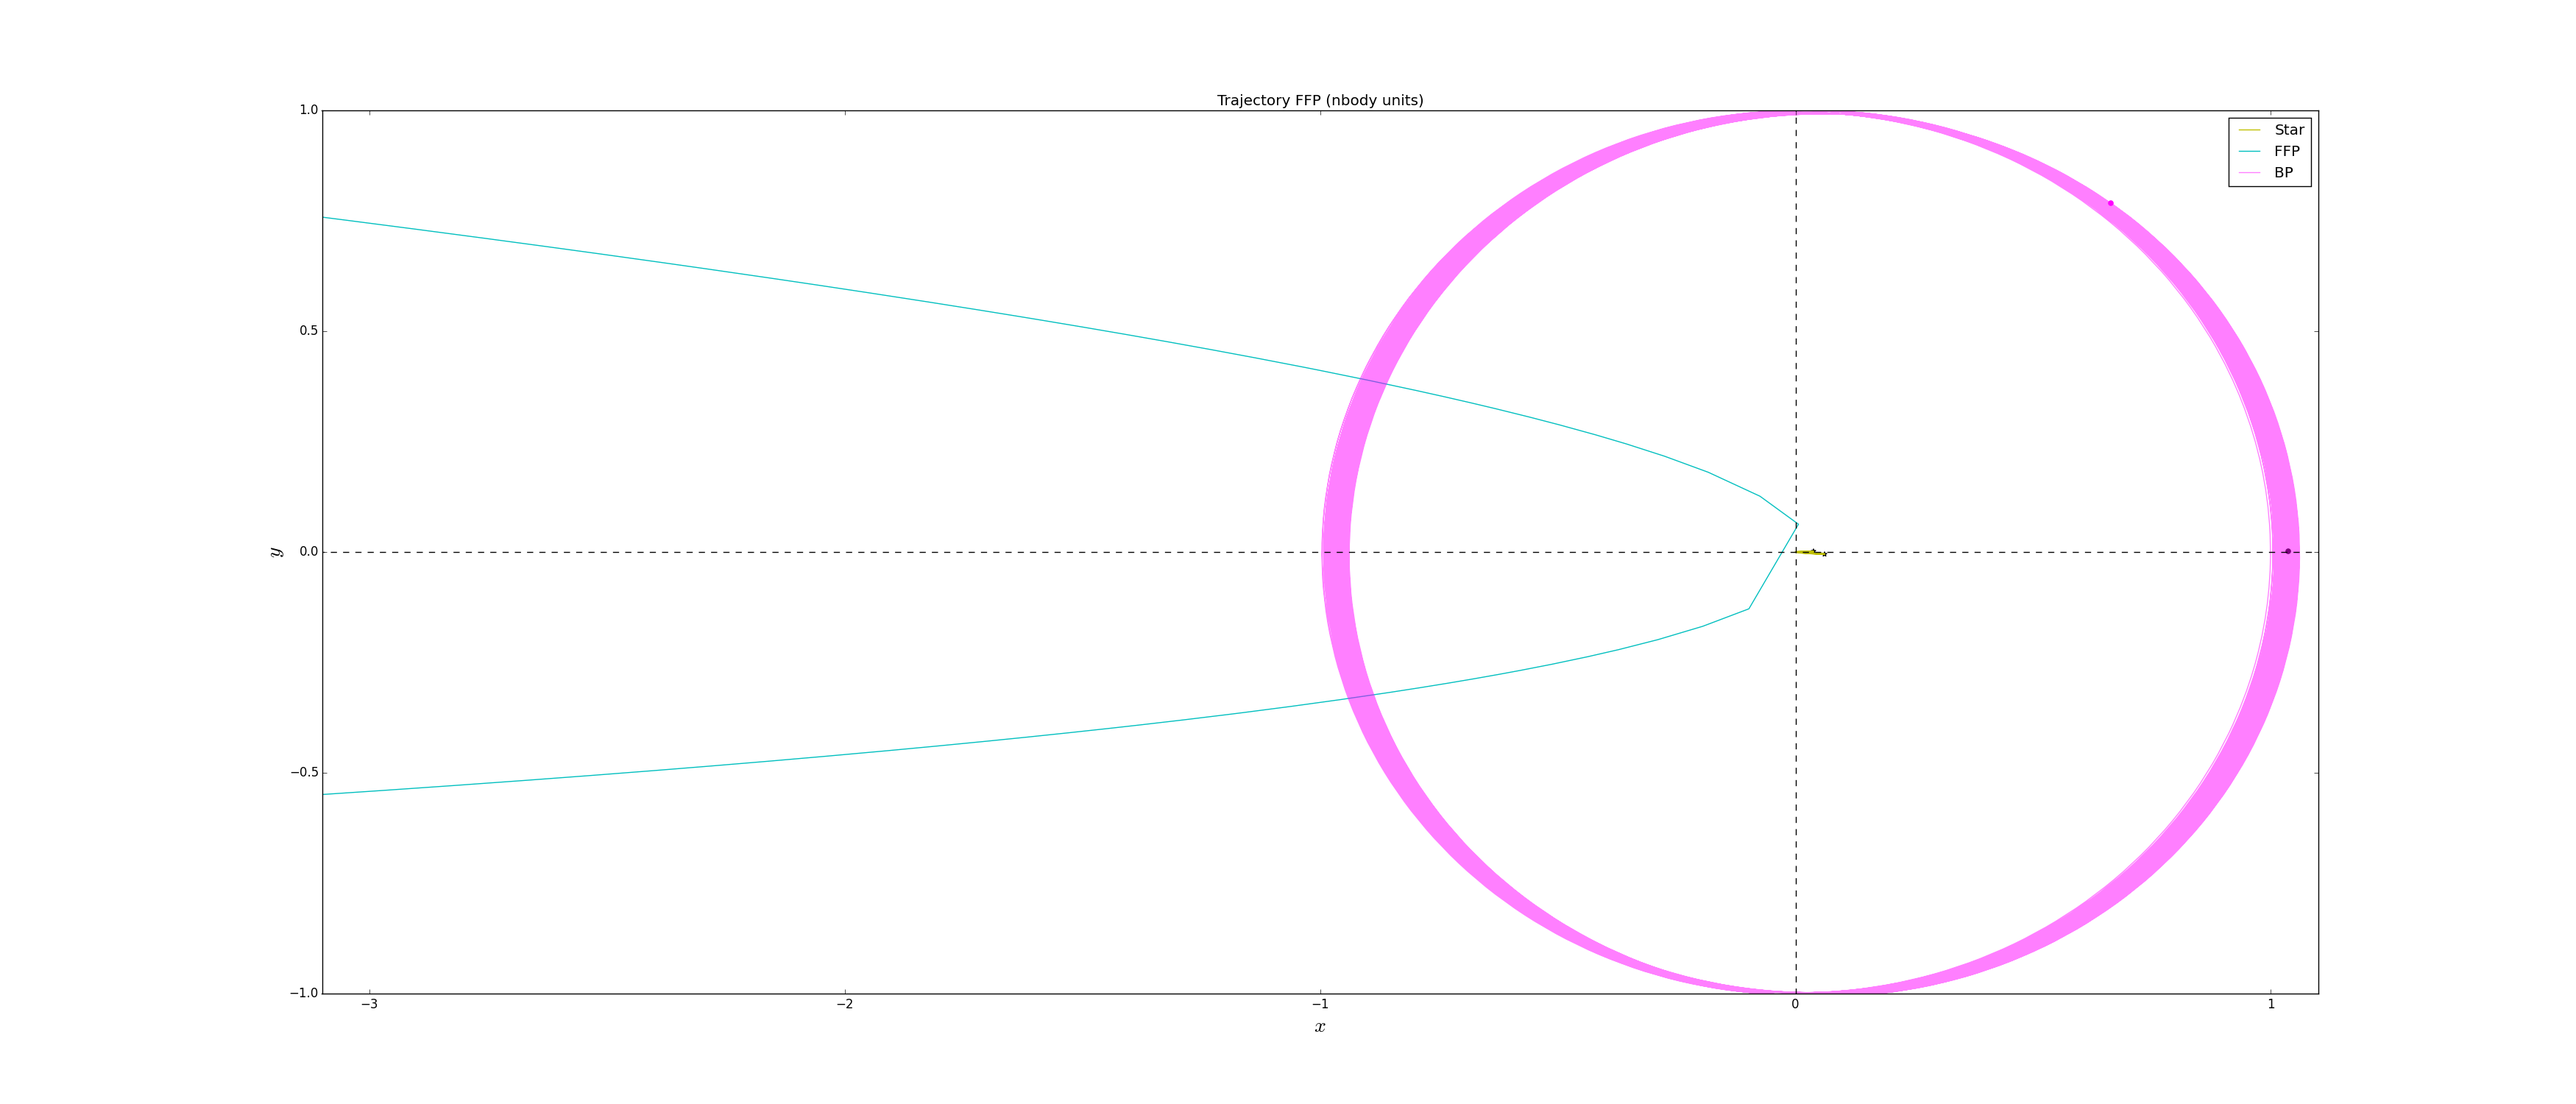
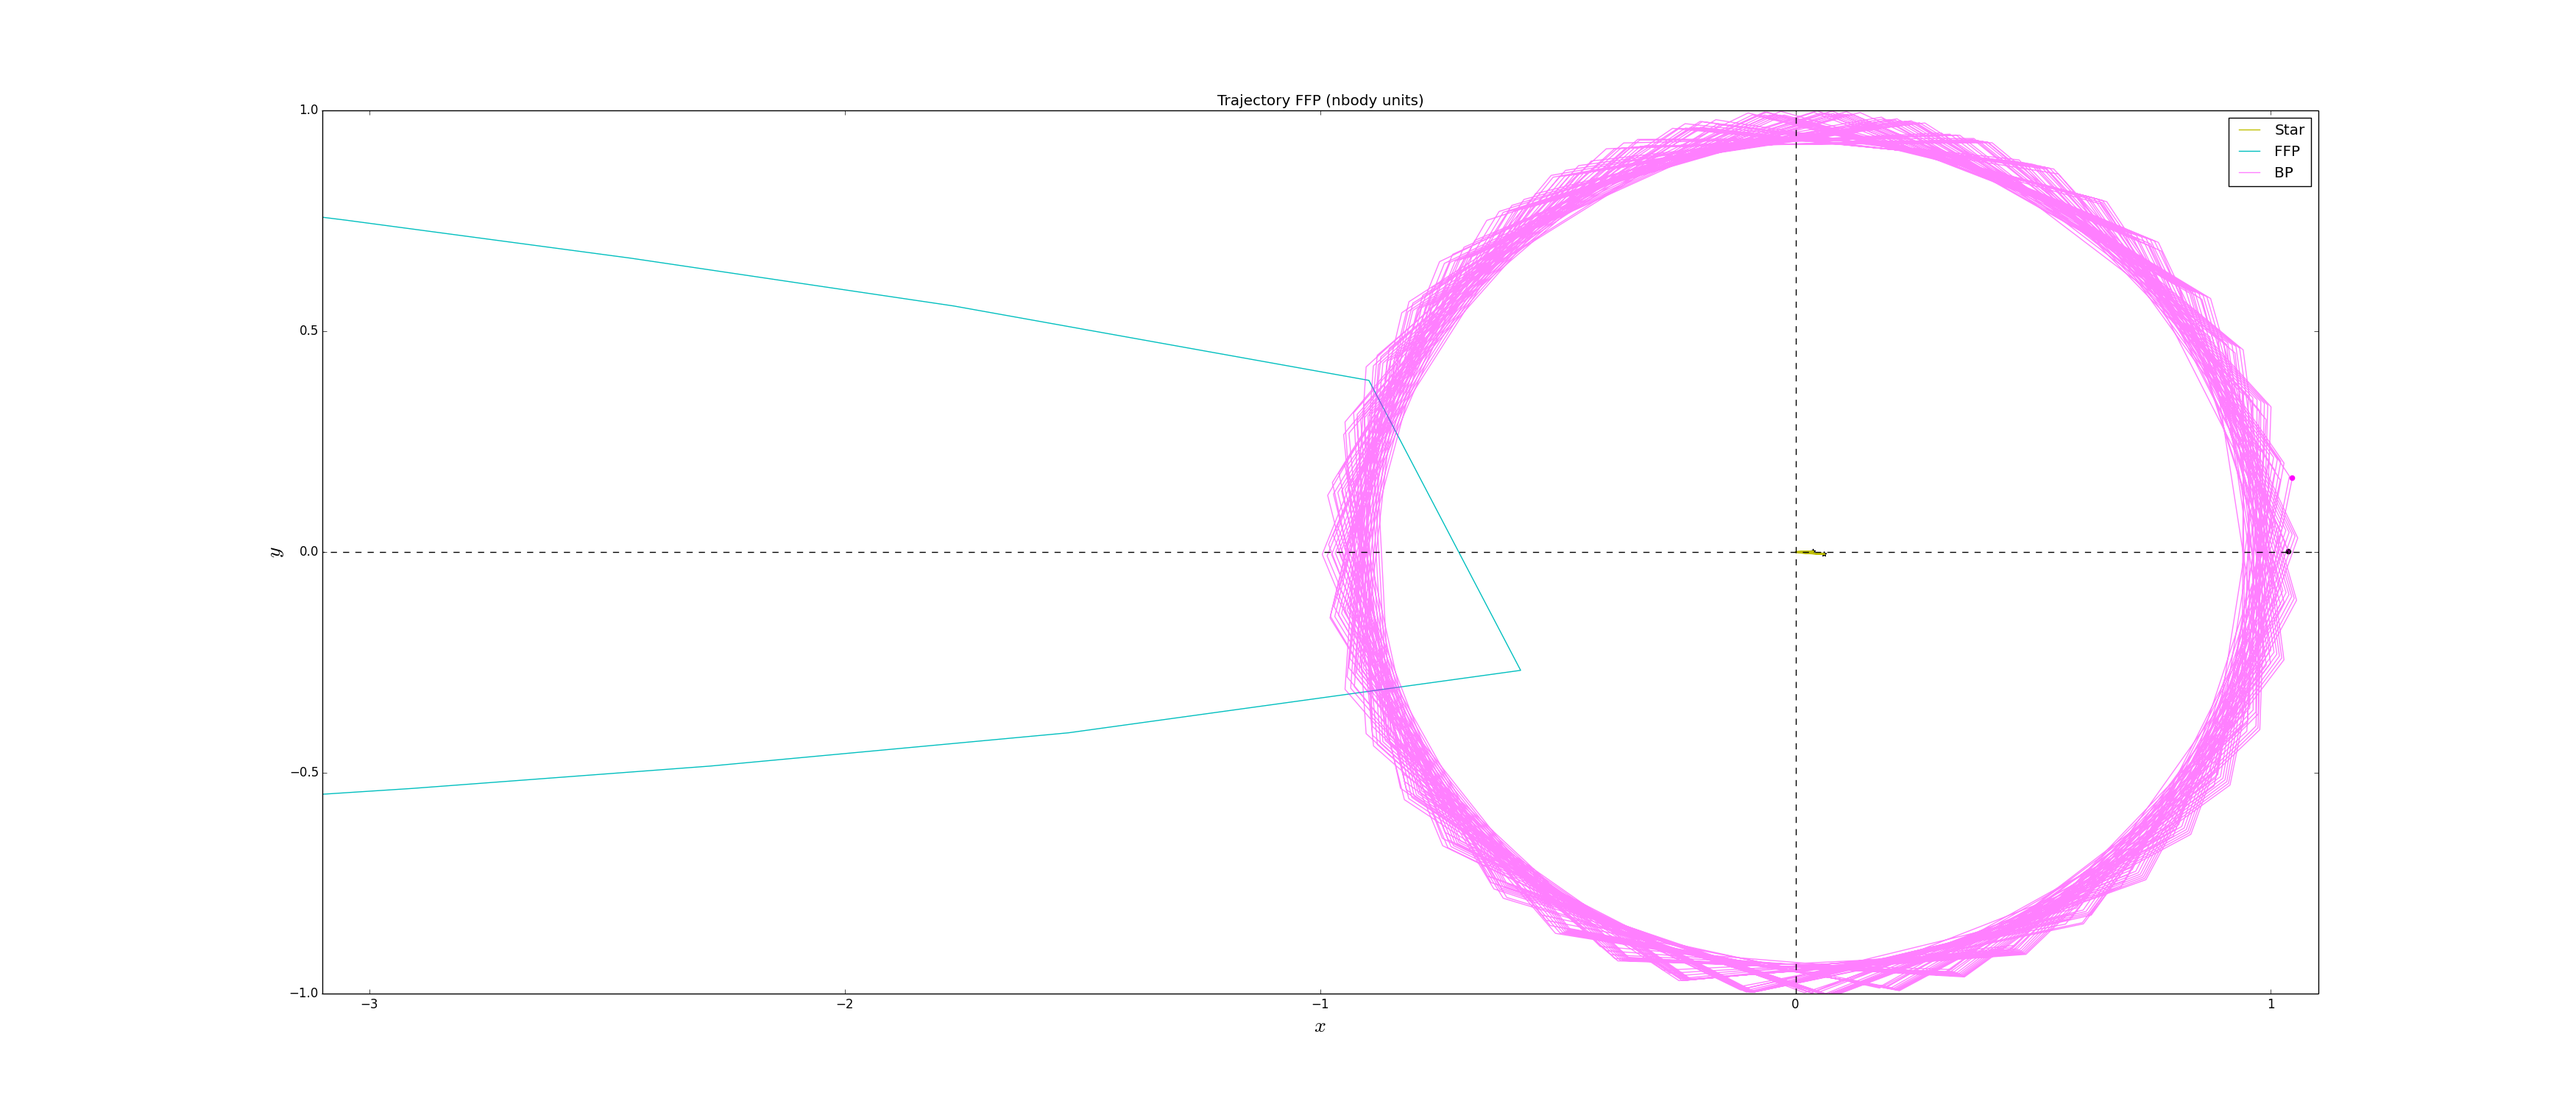
now it takes snapshots and saves those, it is taking 8s per run :D

Changed region(s): [[0.4983, 0.092, 0.9031, 0.92]]

diff --git a/ffp.py b/ffp.py
@@ -7,10 +7,7 @@ from amuse.io import base
 from amuse.units import units, constants, nbody_system
 from amuse.units.quantities import AdaptingVectorQuantity
 from amuse.datamodel import Particles, ParticlesSuperset
-from amuse.community.ph4.interface import ph4
 from amuse.community.smalln.interface import SmallN
-from amuse.community.huayno.interface import Huayno
-from amuse.community.kepler.interface import Kepler
 from amuse.ext.orbital_elements import orbital_elements_from_binary, new_binary_from_orbital_elements
 
 def initialize_code(bodies, code=SmallN, timestep_parameter=0.0169):
@@ -110,18 +107,19 @@ def energies_binaries(bodies, indexA, indexB):
 
     return binary_energy
 
-def save_particles_to_file(bodies, bodies_to_save, bodies_filename,time):
+def save_particles_to_file(bodies, bodies_to_save, bodies_filename,time,converter):
     #Add attributes that I'm interested in to the bodies_to_save
-    bodies_to_save.position = bodies.position
-    bodies_to_save.velocity = bodies.velocity
-    bodies_to_save.semimajoraxis = bodies.semimajoraxis
+    bodies_to_save.position = converter.to_si(bodies.position).as_quantity_in(units.AU)
+    bodies_to_save.velocity = converter.to_si(bodies.velocity).as_quantity_in(units.kms)
+    bodies_to_save.semimajoraxis = converter.to_si(bodies.semimajoraxis).as_quantity_in(units.AU)
     bodies_to_save.eccentricity = bodies.eccentricity
-    bodies_to_save.time = time
+    bodies_to_save.time = converter.to_si(time).as_quantity_in(units.yr)
 
     write_set_to_file(bodies_to_save, bodies_filename, "hdf5")
 
-def evolve_gravity(bodies, number_of_planets, converter, t_end, n_steps, bodies_filename):
+def evolve_gravity(bodies, number_of_planets, converter, t_end, n_steps, n_snapshots, bodies_filename):
 
+    #Particles that will be saved in the file
     bodies_to_save = Particles(number_of_planets+2)
 
     #Positions and velocities centered on the center of mass
@@ -129,6 +127,7 @@ def evolve_gravity(bodies, number_of_planets, converter, t_end, n_steps, bodies_
 
     time = 0. | nbody_system.time
     dt = t_end / float(n_steps)
+    dt_snapshots = t_end / float(n_snapshots)
 
     gravity = initialize_code(bodies, timestep_parameter = dt.value_in(nbody_system.time))
     channel_from_gr_to_framework = gravity.particles.new_channel_to(bodies)
@@ -136,13 +135,10 @@ def evolve_gravity(bodies, number_of_planets, converter, t_end, n_steps, bodies_
     x = AdaptingVectorQuantity()
     y = AdaptingVectorQuantity()
     times = AdaptingVectorQuantity()
+    system_energies = AdaptingVectorQuantity()
 
-    Etot_init = gravity.kinetic_energy + gravity.potential_energy
-    Etot = Etot_init
+    E_initial = gravity.kinetic_energy + gravity.potential_energy
     DeltaE_max = 0.0 | nbody_system.energy
-
-    times.append(time)
-    system_energies = [Etot.value_in(nbody_system.energy)]
 
     while time<=t_end:
 
@@ -164,26 +160,22 @@ def evolve_gravity(bodies, number_of_planets, converter, t_end, n_steps, bodies_
             bodies[j].eccentricity = e
             bodies[j].semimajoraxis = sma
 
-        Etot = gravity.kinetic_energy + gravity.potential_energy
-        DeltaE = abs(Etot-Etot_init)
+        E = gravity.kinetic_energy + gravity.potential_energy
+        system_energies.append(E)
 
-        system_energies.append(Etot.value_in(nbody_system.energy))
-
+        DeltaE = abs(E-E_initial)
         if ( DeltaE > DeltaE_max ):
             DeltaE_max = DeltaE
 
-        save_particles_to_file(bodies, bodies_to_save, bodies_filename,time)
+        save_particles_to_file(bodies, bodies_to_save, bodies_filename,time,converter)
 
-        time += dt
+        time += dt_snapshots
 
-    # print '\nEnergy Change:', DeltaE_max/Etot_init
-
-    # print '\n BODIES AT END\n'
-    # print bodies_to_save
+    max_energy_change = DeltaE_max/E_initial
 
     gravity.stop()
 
-    return x,y,times,numpy.array(system_energies)
+    return x,y,times,system_energies,max_energy_change
 
 def plot_trajectory(x,y,number_of_planets):
 
@@ -234,9 +226,11 @@ def plot_trajectory(x,y,number_of_planets):
 
 def plot_energy(times, energies):
 
+    times = times.value_in(nbody_system.time)
+    energies = energies.value_in(nbody_system.energy)
+
     initial_energy = energies[0]
     energies = (energies-initial_energy)/initial_energy
-    times = times.value_in(nbody_system.time)
 
     f=figure(figsize=(15,15))
 
@@ -255,28 +249,20 @@ def convert_units(converter, t_end_p, m0_p, m_ffp_p, m_planets_p, a_planets_p, e
 
     #time of integration in yr
     t_end = converter.to_nbody(t_end_p | units.yr)
-
     #mass of the disk-central star in MSun
     m0 = converter.to_nbody(m0_p | units.MSun)
-
     #mass of the FFP MJupiter
     m_ffp = converter.to_nbody(m_ffp_p | units.MJupiter)
-
     #list of the masses of the bounded planets in MJupiter
     m_planets = converter.to_nbody(m_planets_p | units.MJupiter)
-
     #list of the semimajor axes of the bounded planets in AU
     a_planets = converter.to_nbody(a_planets_p | units.AU)
-
     #list of the eccentricities of the bounded planets
     e_planets = e_planets_p
-
     #number of steps for the integrator
     n_steps = n_steps_p
-
     #initial angle for of the bounded planet in degrees
     phi = phi_p
-
     #impact parameter of the FFP in AU
     b = converter.to_nbody(b_p | units.AU)
 
@@ -287,8 +273,7 @@ def stop_code():
     import sys
     sys.exit()
 
-def run_capture(t_end_p=650.0, m0_p=1.0, m_ffp_p=1.0, m_planets_p=[1.0], a_planets_p=[5.0], e_planets_p=[0.0], n_steps_p=10000, phi_p=0.0, b_p=5.0, iteration_number=1):
-
+def run_capture(t_end_p=650.0, m0_p=1.0, m_ffp_p=1.0, m_planets_p=[1.0], a_planets_p=[5.0], e_planets_p=[0.0], n_steps_p=10000, phi_p=0.0, b_p=5.0, iteration_number=1, n_snapshots_p=350):
     """
     Units: t_end(yr), m0(MSun), m_ffp(MJupiter), m_planets(MJupiter), a_planets(AU), e_planets(None), n_steps(None), phi(degrees), b(AU)
     """
@@ -313,16 +298,16 @@ def run_capture(t_end_p=650.0, m0_p=1.0, m_ffp_p=1.0, m_planets_p=[1.0], a_plane
     #Particle superset: star, FFP, planets
     bodies = ParticlesSuperset([star_and_ffp_in_orbit, planets])
 
-    # print '\nBODIES AT START:\n'
-    # print bodies
-
+    #File to store results
     bodies_filename = './particles/'+str(iteration_number)+'.hdf5'
 
     #Evolve time
-    x,y,times,energies = evolve_gravity(bodies,number_of_planets,converter,t_end,n_steps,bodies_filename)
+    x,y,times,energies,max_energy_change = evolve_gravity(bodies,number_of_planets,converter,t_end,n_steps,n_snapshots_p,bodies_filename)
 
-    #plot_trajectory(x,y,number_of_planets)
-    #plot_energy(times, energies)
+    plot_trajectory(x,y,number_of_planets)
+    plot_energy(times, energies)
+
+    return max_energy_change
 
 if __name__ in ('__main__', '__plot__'):
 

diff --git a/run.py b/run.py
@@ -1,5 +1,5 @@
 import numpy as np
-import os, time
+import os, time, math
 import ffp
 
 def squared_space(b_initial, b_final, n_bs):
@@ -13,55 +13,78 @@ def squared_space(b_initial, b_final, n_bs):
         ss = np.sqrt(np.linspace(b_initial**2,b_final**2,n_bs))
     return ss
 
-#Fixed Values
-t_end = 650.0 #yr
-m0 = 1.0 #MSun
-m_planets = [1.0] #MJupiter
-a_planets = [5.0] #AU
-e_planets = [0.0]
-n_steps = 10000
+def find_limit_b(mass_ratio):
+    return math.sqrt(-(-mass_ratio**6-6*mass_ratio**5-15*mass_ratio**4-20*mass_ratio**3-15*mass_ratio**2-(mass_ratio+1)**3*math.sqrt(mass_ratio**6+6*mass_ratio**5+25615*mass_ratio**4+20*mass_ratio**3+15*mass_ratio**2+6*mass_ratio+1)-6*mass_ratio-1)/(8*mass_ratio**4))
 
-# def find_upper_b(a): #a is lambda
-#     return math.sqrt(-(-a**6-6*a**5-15*a**4-20*a**3-15*a**2-(a+1)**3*sqrt(a**6+6*a**5+25615*a**4+20*a**3+15*a**2+6*a+1)-6*a-1)/(8*a**4))
+def create_info_file():
+    info = open('./info.txt','w')
+    info.write('PARTICLES:\n')
+    info.write('key\teccentricity\tsemimajoraxis\ttime\tvx\tvy\tvz\tx\ty\tz\n')
+    info.write('-\tnone\tAU\tyr\tkms\tkms\tkms\tAU\tAU\tAU\n')
+    #info.write('========\t===========\t===========\t===========\t===========\t===========\t===========\t===========\t===========\t===========\n')
+    info.write('key_star\tinitial_eccentricity_ffp_star\tinitial_semimajoraxis_ffp_star\ttime\tvx_star\tvy_star\tvz_star\tx_star\ty_star\tz_star\n')
+    info.write('key_ffp\teccentricity_ffp_star\tsemimajoraxis_ffp_star\ttime\tvx_ffp\tvy_ffp\tvz_ffp\tx_ffp\ty_ffp\tz_ffp\n')
+    info.write('key_bp\teccentricity_bp_star\tsemimajoraxis_bp_star\ttime\tvx_bp\tvy_bp\tvz_bp\tx_bp\ty_bp\tz_bp\n')
+    info.write('\nPARAMETERS:\n')
+    info.write('iteration_number\tmass_ffp(MJupiter)\timpact_parameter(AU)\tphi(degrees)\tduration_run(s)\tenergy_conservation\n')
+    info.close()
 
-#3 parameters
-#earth_mass = 0.0031452 #In MJupiter
-#ms_ffp = np.linspace(earth_mass, 10.0, 10) #MJupiter
-ms_ffp = [1.0] #MJupiter
-bs = squared_space(-7*5.0, 7*5.0, 10) #AU
-#bs = [5.0] #AU
-phis = np.random.rand(10) #degrees (this should be 1000 phis)
-#phis = [0.0] #degrees
+if __name__ in ('__main__', '__plot__'):
 
-#File to follow this parameters
-file_parameters = open('./parameters.txt','w')
+    #Create file with information of units and order of particle sets
+    create_info_file()
 
-i=1
+    #Fixed Values
+    t_end = 650.0 #yr
+    m0 = 1.0 #MSun
+    m_planets = [1.0] #MJupiter
+    a_planets = [5.0] #AU
+    e_planets = [0.0]
+    n_steps = 10000
+    n_snapshots = int(n_steps/20.0)
 
-for m_ffp in ms_ffp:
-    for b in bs:
-        for phi in phis:
-            #Time starts
-            start_time = time.time()
+    #earth_mass = 0.0031452 #In MJupiter
+    #ms_ffp = np.linspace(earth_mass, 10.0, 10) #MJupiter
+    ms_ffp = [1.0] #MJupiter
 
-            ffp.run_capture(t_end_p=t_end,
-                            m0_p=m0,
-                            m_ffp_p=m_ffp,
-                            m_planets_p=m_planets,
-                            a_planets_p=a_planets,
-                            e_planets_p=e_planets,
-                            n_steps_p=n_steps,
-                            phi_p=phi,
-                            b_p=b,
-                            iteration_number=i)
+    #np.random.seed(12)
+    #phis = np.random.rand(10) #degrees (this should be 1000 phis)
+    phis = [0.0] #degrees
 
-            #Time stops
-            duration = time.time()-start_time
+    #File to follow this parameters
+    file_parameters = open('./parameters.txt','w')
 
-            #Write in File (iteration, mass of ffp, impact parameter, phi, duration)
-            file_parameters.write(('%d\t%.4f\t%.4f\t%.4f\t%.4f\n')%(i,m_ffp,b,phi,duration))
+    i=1
 
-            #Advance counter
-            i += 1
+    for m_ffp in ms_ffp:
+        #mass_ratio = m_ffp/m_planets[-1]
+        #b_limit = find_limit_b(mass_ratio)
+        #bs = squared_space(-b_limit, b_limit, 10) #AU
+        bs = [5.0] #AU
+        for b in bs:
+            for phi in phis:
+                #Time starts
+                start_time = time.time()
 
-file_parameters.close()
+                max_energy_change = ffp.run_capture(t_end_p=t_end,
+                                                    m0_p=m0,
+                                                    m_ffp_p=m_ffp,
+                                                    m_planets_p=m_planets,
+                                                    a_planets_p=a_planets,
+                                                    e_planets_p=e_planets,
+                                                    n_steps_p=n_steps,
+                                                    phi_p=phi,
+                                                    b_p=b,
+                                                    iteration_number=i,
+                                                    n_snapshots_p=n_snapshots)
+
+                #Time stops
+                duration = time.time()-start_time
+
+                #Write in File (iteration, mass of ffp, impact parameter, phi, duration)
+                file_parameters.write(('%d\t%.4f\t%.4f\t%.4f\t%.4f\t%.9f\n')%(i,m_ffp,b,phi,duration,max_energy_change))
+
+                #Advance counter
+                i += 1
+
+    file_parameters.close()
